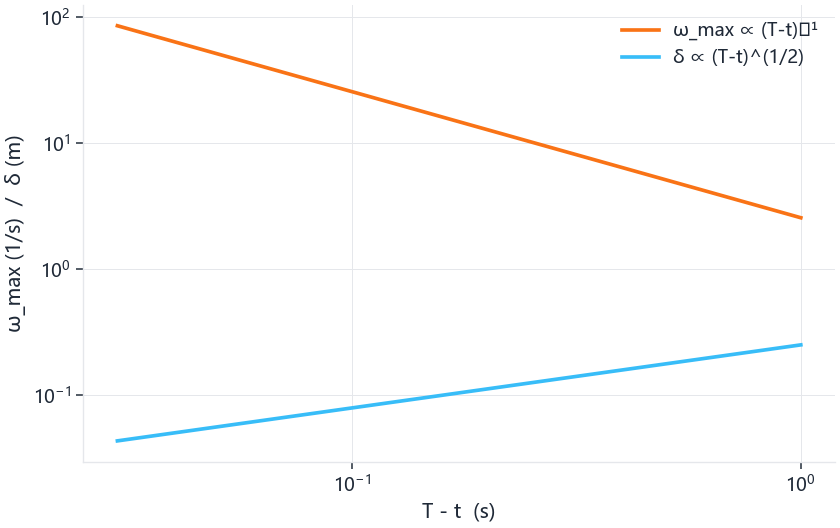
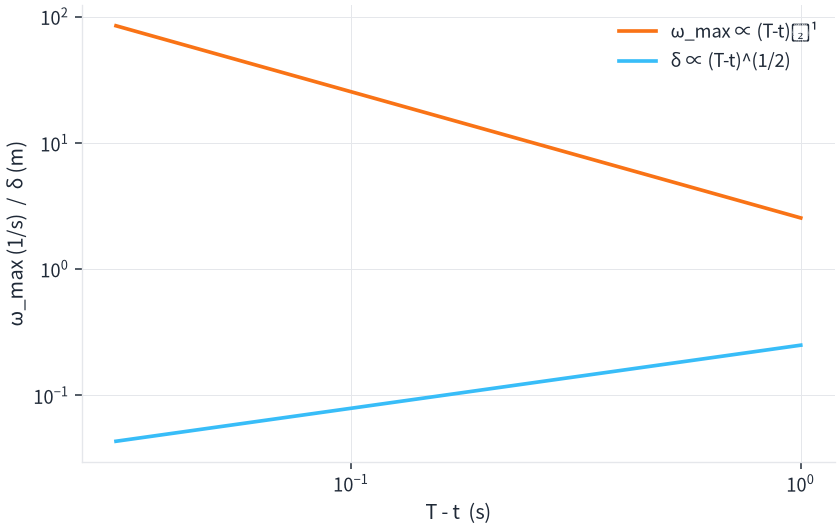
feat(ns): 辉光后处理 + 几何环层 + 轴柱颗粒喷射

diff --git a/src/plotkit/static/nsview.js b/src/plotkit/static/nsview.js
@@ -243,12 +243,12 @@ const NS = (() => {
       gl.texParameteri(gl.TEXTURE_2D, gl.TEXTURE_WRAP_S, gl.CLAMP_TO_EDGE);
       gl.texParameteri(gl.TEXTURE_2D, gl.TEXTURE_WRAP_T, gl.CLAMP_TO_EDGE);
 
-      this.cam = { yaw: -0.6, pitch: 0.42, dist: 3.6, target: [0, 0, 0] };
+      this.cam = { yaw: -0.6, pitch: 0.62, dist: 3.1, target: [0, 0, 0] };
       this.extent = [0.35, 1.2];
       this.particles = null;
       this.trails = null;
       this.settings = { density: 1.0, pointSize: 3.2, showParticles: true, showTrails: true,
-                        streaks: 0.8, spin: 2.0 };
+                        streaks: 0.8, spin: 2.0, bloom: 0.45, bloomThresh: 0.92, ringAlpha: 0.22, showRings: true };
       this.time = 0.0;
       this.tau = 1.0;
       this.stats = { fps: 0 };
@@ -311,19 +311,20 @@ const NS = (() => {
       const rMax = (this.extent && this.extent[0]) || 0.5;
       const zMax = (this.extent && this.extent[1]) || 1.2;
       for (let i = 0; i < count; i++) {
-        const th = rng() * Math.PI * 2;
+        // 黄金角分层：角度上均匀铺开，避免随机撒点造成的颗粒感
+        const th = (i * 2.399963229728653) % (Math.PI * 2);
         // 七成铺在赤道盘上（看得见同心环），三成铺在轴柱里（形成上下锥）
-        const disk = rng() < 0.85;
+        const disk = rng() < 0.78;
         // 离散同心壳：粒子撒在 N 个半径上，才看得出参考图那种环
-        const SHELLS = 26;
+        const SHELLS = 40;
         const shell = Math.floor(rng() * SHELLS);
         const rr = disk
-          ? rMax * (shell + 0.5) / SHELLS * (0.985 + 0.03 * rng())
-          : 0.02 + 0.12 * rMax * Math.sqrt(rng());
+          ? rMax * (shell + 0.5) / SHELLS * (0.997 + 0.006 * rng())
+          : 0.02 + 0.16 * rMax * Math.sqrt(rng());
         const zz = disk
           ? (rng() * 2 - 1) * 0.035 * zMax
-          : (rng() * 2 - 1) * zMax;
-        const taper = disk ? 1.0 : 1.0 - 0.78 * Math.pow(Math.abs(zz) / zMax, 1.1);
+          : (rng() * 2 - 1) * 0.92 * zMax;
+        const taper = disk ? 1.0 : 1.0 - 0.86 * Math.pow(Math.abs(zz) / zMax, 1.1);
         pos[i * 3] = rr * taper * Math.cos(th);
         pos[i * 3 + 1] = rr * taper * Math.sin(th);
         pos[i * 3 + 2] = zz;
@@ -334,10 +335,12 @@ const NS = (() => {
           if (t < 0.25) { const k = t / 0.25; return [1.0, 0.95 + (0.60 - 0.95) * k, 0.80 + (0.15 - 0.80) * k]; }
           if (t < 0.55) { const k = (t - 0.25) / 0.30; return [1.0 + (0.20 - 1.0) * k, 0.60 + (0.82 - 0.60) * k, 0.15 + (0.72 - 0.15) * k]; }
           const k = (t - 0.55) / 0.45;
-          return [0.20 + (0.35 - 0.20) * k, 0.82 + (0.32 - 0.82) * k, 0.72 + (0.95 - 0.72) * k];
+          return [0.28 + (0.45 - 0.28) * k, 0.86 + (0.40 - 0.86) * k, 0.78 + (1.00 - 0.78) * k];
         };
         const c0 = pal(rn);
-        col[i * 3] = c0[0]; col[i * 3 + 1] = c0[1]; col[i * 3 + 2] = c0[2];
+        // 轴柱里的粒子压暗一点，让赤道盘更突出（颗粒喷射靠 bloom 提亮）
+        const dim = disk ? 1.0 : 0.72;
+        col[i * 3] = c0[0] * dim; col[i * 3 + 1] = c0[1] * dim; col[i * 3 + 2] = c0[2] * dim;
       }
       const gl = this.gl;
       const vbo = gl.createBuffer();
@@ -409,7 +412,7 @@ const NS = (() => {
         if (!isFinite(x) || rr > ext * 1.6 || Math.abs(z) > zext * 1.15
             || rr < ext * 0.05 || age[i] > 0.85) {
           const disk = Math.random() < 0.85;
-          const SHELLS = 26;
+          const SHELLS = 40;
           const shell = Math.floor(Math.random() * SHELLS);
           const rad = disk
             ? ext * (shell + 0.5) / SHELLS * (0.985 + 0.03 * Math.random())
@@ -446,6 +449,50 @@ const NS = (() => {
       gl.bufferSubData(gl.ARRAY_BUFFER, 0, age);
     }
 
+    // ---------- 环层：几何圆环（比粒子撒点更细更匀，直接反映等半径壳） ----------
+    buildRings(shells = 40, seg = 160) {
+      const gl = this.gl;
+      const rMax = (this.extent && this.extent[0]) || 0.5;
+      const vert = [], col = [];
+      const pal = (x) => {
+        if (x < 0.22) return [1.0, 0.96, 0.86];
+        if (x < 0.45) { const k = (x - 0.22) / 0.23; return [1.0, 0.96 + (0.72 - 0.96) * k, 0.86 + (0.18 - 0.86) * k]; }
+        if (x < 0.68) { const k = (x - 0.45) / 0.23; return [1.0 + (0.42 - 1.0) * k, 0.72 + (0.60 - 0.72) * k, 0.18 + (0.35 - 0.18) * k]; }
+        const k = (x - 0.68) / 0.32;
+        return [0.42 + (0.52 - 0.42) * k, 0.60 + (0.46 - 0.60) * k, 0.35 + (1.00 - 0.35) * k];
+      };
+      for (let s = 0; s < shells; s++) {
+        const r = rMax * (s + 3) / (shells + 3);
+        const c = pal(r / rMax);
+        for (let j = 0; j < seg; j++) {
+          const a0 = j / seg * Math.PI * 2, a1 = (j + 1) / seg * Math.PI * 2;
+          vert.push(r * Math.cos(a0), r * Math.sin(a0), 0, r * Math.cos(a1), r * Math.sin(a1), 0);
+          col.push(c[0], c[1], c[2], c[0], c[1], c[2]);
+        }
+      }
+      const vbo = gl.createBuffer();
+      gl.bindBuffer(gl.ARRAY_BUFFER, vbo);
+      gl.bufferData(gl.ARRAY_BUFFER, new Float32Array(vert), gl.STATIC_DRAW);
+      const cbo = gl.createBuffer();
+      gl.bindBuffer(gl.ARRAY_BUFFER, cbo);
+      gl.bufferData(gl.ARRAY_BUFFER, new Float32Array(col), gl.STATIC_DRAW);
+      if (!this.ringProg) {
+        const VS = `#version 300 es
+in vec3 aPos; in vec3 aCol; uniform mat4 uVP; out vec3 vCol;
+void main(){ vCol = aCol; gl_Position = uVP * vec4(aPos, 1.0); }`;
+        const FS = `#version 300 es
+precision highp float; in vec3 vCol; out vec4 o; uniform float uAlpha;
+void main(){ o = vec4(vCol * uAlpha, 1.0); }`;
+        const mk = (ty, src) => { const sh = gl.createShader(ty); gl.shaderSource(sh, src); gl.compileShader(sh); return sh; };
+        const p = gl.createProgram();
+        gl.attachShader(p, mk(gl.VERTEX_SHADER, VS));
+        gl.attachShader(p, mk(gl.FRAGMENT_SHADER, FS));
+        gl.linkProgram(p);
+        this.ringProg = p;
+      }
+      this.rings = { vbo, cbo, count: vert.length / 3 };
+    }
+
     _loop() {
       const now = performance.now();
       const dt = Math.min(0.05, (now - (this._last || now)) / 1000);
@@ -464,6 +511,9 @@ const NS = (() => {
     _draw() {
       const gl = this.gl;
       const w = this.canvas.width, h = this.canvas.height;
+      this._ensureFBOs();
+      // 场景先渲到离屏纹理，辉光与合成在 _postProcess 里做
+      gl.bindFramebuffer(gl.FRAMEBUFFER, this.sceneFBO);
       gl.viewport(0, 0, w, h);
       gl.clearColor(0.016, 0.02, 0.03, 1.0);
       gl.clear(gl.COLOR_BUFFER_BIT);
@@ -526,6 +576,24 @@ const NS = (() => {
         gl.drawArrays(gl.LINES, 0, T.steps * T.seeds);
       }
 
+      // 2.5) 几何环层（等半径壳，锐利且均匀）
+      if (this.settings.showRings !== false && this.rings) {
+        gl.useProgram(this.ringProg);
+        gl.bindBuffer(gl.ARRAY_BUFFER, this.rings.vbo);
+        const ra = gl.getAttribLocation(this.ringProg, "aPos");
+        gl.enableVertexAttribArray(ra);
+        gl.vertexAttribPointer(ra, 3, gl.FLOAT, false, 0, 0);
+        gl.bindBuffer(gl.ARRAY_BUFFER, this.rings.cbo);
+        const rc = gl.getAttribLocation(this.ringProg, "aCol");
+        gl.enableVertexAttribArray(rc);
+        gl.vertexAttribPointer(rc, 3, gl.FLOAT, false, 0, 0);
+        gl.uniformMatrix4fv(gl.getUniformLocation(this.ringProg, "uVP"), false, vp);
+        gl.uniform1f(gl.getUniformLocation(this.ringProg, "uAlpha"), this.settings.ringAlpha);
+        gl.enable(gl.BLEND);
+        gl.blendFunc(gl.SRC_ALPHA, gl.ONE);
+        gl.drawArrays(gl.LINES, 0, this.rings.count);
+      }
+
       // 3) 粒子（加法混合）
       if (this.settings.showParticles && this.particles) {
         const P = this.particles;
@@ -554,6 +622,140 @@ const NS = (() => {
       }
       gl.disable(gl.BLEND);
       this._lastVP = vp;
+      this._postProcess(w, h);
+    }
+
+    // ---------- 辉光（bloom）：亮部提取 → 分离高斯模糊 → 加法合成 ----------
+    _initPost() {
+      if (this.post) return;
+      const gl = this.gl;
+      const VS = `#version 300 es
+in vec2 aPos; out vec2 vUv;
+void main(){ vUv = aPos * 0.5 + 0.5; gl_Position = vec4(aPos, 0.0, 1.0); }`;
+      const mk = (fs) => {
+        const v = gl.createShader(gl.VERTEX_SHADER);
+        gl.shaderSource(v, VS); gl.compileShader(v);
+        const f = gl.createShader(gl.FRAGMENT_SHADER);
+        gl.shaderSource(f, fs); gl.compileShader(f);
+        if (!gl.getShaderParameter(f, gl.COMPILE_STATUS)) throw new Error(gl.getShaderInfoLog(f));
+        const p = gl.createProgram();
+        gl.attachShader(p, v); gl.attachShader(p, f); gl.linkProgram(p);
+        if (!gl.getProgramParameter(p, gl.LINK_STATUS)) throw new Error(gl.getProgramInfoLog(p));
+        return p;
+      };
+      const bright = mk(`#version 300 es
+precision highp float; in vec2 vUv; out vec4 o;
+uniform sampler2D uTex; uniform float uThresh; uniform float uKnee;
+void main() {
+  vec3 c = texture(uTex, vUv).rgb;
+  float l = max(c.r, max(c.g, c.b));
+  float k = clamp((l - uThresh) / max(uKnee, 1e-4), 0.0, 1.0);
+  o = vec4(c * k * k, 1.0);
+}`);
+      const blur = mk(`#version 300 es
+precision highp float; in vec2 vUv; out vec4 o;
+uniform sampler2D uTex; uniform vec2 uDir;
+void main() {
+  float w0 = 0.227027, w1 = 0.1945946, w2 = 0.1216216, w3 = 0.054054, w4 = 0.016216;
+  vec3 s = texture(uTex, vUv).rgb * w0;
+  s += texture(uTex, vUv + uDir * 1.0).rgb * w1;
+  s += texture(uTex, vUv - uDir * 1.0).rgb * w1;
+  s += texture(uTex, vUv + uDir * 2.0).rgb * w2;
+  s += texture(uTex, vUv - uDir * 2.0).rgb * w2;
+  s += texture(uTex, vUv + uDir * 3.0).rgb * w3;
+  s += texture(uTex, vUv - uDir * 3.0).rgb * w3;
+  s += texture(uTex, vUv + uDir * 4.0).rgb * w4;
+  s += texture(uTex, vUv - uDir * 4.0).rgb * w4;
+  o = vec4(s, 1.0);
+}`);
+      const comp = mk(`#version 300 es
+precision highp float; in vec2 vUv; out vec4 o;
+uniform sampler2D uScene; uniform sampler2D uBloom; uniform float uStrength;
+void main() {
+  vec3 s = texture(uScene, vUv).rgb;
+  vec3 b = texture(uBloom, vUv).rgb;
+  o = vec4(s + b * uStrength, 1.0);
+}`);
+      const buf = gl.createBuffer();
+      gl.bindBuffer(gl.ARRAY_BUFFER, buf);
+      gl.bufferData(gl.ARRAY_BUFFER, new Float32Array([-1, -1, 3, -1, -1, 3]), gl.STATIC_DRAW);
+      this.post = { bright, blur, comp, buf };
+    }
+
+    _ensureFBOs() {
+      const gl = this.gl, w = this.canvas.width, h = this.canvas.height;
+      this._initPost();
+      if (this.sceneFBO && this._fbW === w && this._fbH === h) return;
+      const mkRT = (tw, th) => {
+        const t = gl.createTexture();
+        gl.bindTexture(gl.TEXTURE_2D, t);
+        gl.texImage2D(gl.TEXTURE_2D, 0, gl.RGBA8, tw, th, 0, gl.RGBA, gl.UNSIGNED_BYTE, null);
+        gl.texParameteri(gl.TEXTURE_2D, gl.TEXTURE_MIN_FILTER, gl.LINEAR);
+        gl.texParameteri(gl.TEXTURE_2D, gl.TEXTURE_MAG_FILTER, gl.LINEAR);
+        gl.texParameteri(gl.TEXTURE_2D, gl.TEXTURE_WRAP_S, gl.CLAMP_TO_EDGE);
+        gl.texParameteri(gl.TEXTURE_2D, gl.TEXTURE_WRAP_T, gl.CLAMP_TO_EDGE);
+        const f = gl.createFramebuffer();
+        gl.bindFramebuffer(gl.FRAMEBUFFER, f);
+        gl.framebufferTexture2D(gl.FRAMEBUFFER, gl.COLOR_ATTACHMENT0, gl.TEXTURE_2D, t, 0);
+        return { tex: t, fbo: f };
+      };
+      if (this.sceneFBO) {
+        gl.deleteFramebuffer(this.sceneFBO); gl.deleteTexture(this.sceneTex);
+        gl.deleteFramebuffer(this.bloomFBO[0]); gl.deleteFramebuffer(this.bloomFBO[1]);
+        gl.deleteTexture(this.bloomTex[0]); gl.deleteTexture(this.bloomTex[1]);
+      }
+      const scene = mkRT(w, h);
+      this.sceneTex = scene.tex; this.sceneFBO = scene.fbo;
+      this._bW = Math.max(1, Math.floor(w / 2)); this._bH = Math.max(1, Math.floor(h / 2));
+      const a = mkRT(this._bW, this._bH), b = mkRT(this._bW, this._bH);
+      this.bloomTex = [a.tex, b.tex]; this.bloomFBO = [a.fbo, b.fbo];
+      gl.bindFramebuffer(gl.FRAMEBUFFER, null);
+      this._fbW = w; this._fbH = h;
+    }
+
+    _postProcess(w, h) {
+      const gl = this.gl, P = this.post;
+      const bw = this._bW, bh = this._bH;
+      gl.disable(gl.BLEND);
+      const bindQuad = (prog) => {
+        gl.useProgram(prog);
+        gl.bindBuffer(gl.ARRAY_BUFFER, P.buf);
+        const a = gl.getAttribLocation(prog, "aPos");
+        gl.enableVertexAttribArray(a);
+        gl.vertexAttribPointer(a, 2, gl.FLOAT, false, 0, 0);
+      };
+      // 1) 亮部提取：scene -> bloomA
+      bindQuad(P.bright);
+      gl.bindFramebuffer(gl.FRAMEBUFFER, this.bloomFBO[0]);
+      gl.viewport(0, 0, bw, bh);
+      gl.activeTexture(gl.TEXTURE0);
+      gl.bindTexture(gl.TEXTURE_2D, this.sceneTex);
+      gl.uniform1i(gl.getUniformLocation(P.bright, "uTex"), 0);
+      gl.uniform1f(gl.getUniformLocation(P.bright, "uThresh"), this.settings.bloomThresh);
+      gl.uniform1f(gl.getUniformLocation(P.bright, "uKnee"), 0.35);
+      gl.drawArrays(gl.TRIANGLES, 0, 3);
+      // 2) 分离高斯：A->B（横）再 B->A（纵）
+      bindQuad(P.blur);
+      gl.uniform1i(gl.getUniformLocation(P.blur, "uTex"), 0);
+      for (let i = 0; i < 2; i++) {
+        gl.bindFramebuffer(gl.FRAMEBUFFER, this.bloomFBO[(i + 1) % 2]);
+        gl.activeTexture(gl.TEXTURE0);
+        gl.bindTexture(gl.TEXTURE_2D, this.bloomTex[i]);
+        const dx = (i === 0 ? 1.6 / bw : 0.0), dy = (i === 0 ? 0.0 : 1.6 / bh);
+        gl.uniform2f(gl.getUniformLocation(P.blur, "uDir"), dx, dy);
+        gl.drawArrays(gl.TRIANGLES, 0, 3);
+      }
+      // 3) 合成到画布
+      bindQuad(P.comp);
+      gl.bindFramebuffer(gl.FRAMEBUFFER, null);
+      gl.viewport(0, 0, w, h);
+      gl.activeTexture(gl.TEXTURE0); gl.bindTexture(gl.TEXTURE_2D, this.sceneTex);
+      gl.activeTexture(gl.TEXTURE1); gl.bindTexture(gl.TEXTURE_2D, this.bloomTex[0]);
+      gl.uniform1i(gl.getUniformLocation(P.comp, "uScene"), 0);
+      gl.uniform1i(gl.getUniformLocation(P.comp, "uBloom"), 1);
+      gl.uniform1f(gl.getUniformLocation(P.comp, "uStrength"), this.settings.bloom);
+      gl.drawArrays(gl.TRIANGLES, 0, 3);
+      gl.activeTexture(gl.TEXTURE0);
     }
   }
 

diff --git a/src/plotkit/static/ns.html b/src/plotkit/static/ns.html
@@ -70,6 +70,8 @@
   <input id="ks" type="range" min="0" max="1" step="0.05" value="0.8">
   <label>螺旋缠绕 <span class="val" id="vw">2.0</span></label>
   <input id="kw" type="range" min="0" max="6" step="0.25" value="2.0">
+  <label>辉光强度 <span class="val" id="vb">0.45</span></label>
+  <input id="kb" type="range" min="0" max="2.5" step="0.05" value="0.45">
   <label>粒子数 <span class="val" id="vp">200000</span></label>
   <input id="kp" type="range" min="20000" max="300000" step="20000" value="200000">
   <div style="margin-top:8px; display:flex; gap:6px">
@@ -122,6 +124,7 @@ async function loadMeta() {
 async function loadField() {
   const { meta, data } = await getFrame(`/api/ns/slice?t=${S.t.toFixed(5)}&n_r=256&n_z=384&r_max=0.5&z_max=1.2&${params()}`);
   view.setField(meta, data);
+  view.buildRings();
   S.fieldMeta = meta;
 }
 
@@ -176,13 +179,14 @@ function scheduleRefresh(full) {
 
 function bind() {
   const kh = $("kh"), kx = $("kx"), ke = $("ke"), kd = $("kd"), kp = $("kp"),
-        ks = $("ks"), kw = $("kw");
+        ks = $("ks"), kw = $("kw"), kb = $("kb");
   kh.oninput = () => { S.h = +kh.value; $("vh").textContent = S.h.toFixed(3); scheduleRefresh(true); };
   kx.oninput = () => { S.x0 = +kx.value; $("vx").textContent = S.x0.toFixed(2); scheduleRefresh(true); };
   ke.oninput = () => { S.eta0 = +ke.value; $("ve").textContent = S.eta0.toFixed(2); scheduleRefresh(true); };
   kd.oninput = () => { view.settings.density = +kd.value; $("vd").textContent = (+kd.value).toFixed(1); };
   ks.oninput = () => { view.settings.streaks = +ks.value; $("vs").textContent = (+ks.value).toFixed(2); };
   kw.oninput = () => { view.settings.spin = +kw.value; $("vw").textContent = (+kw.value).toFixed(1); };
+  kb.oninput = () => { view.settings.bloom = +kb.value; $("vb").textContent = (+kb.value).toFixed(2); };
   kp.oninput = () => {
     S.particles = +kp.value; $("vp").textContent = S.particles;
     view.seedParticles(S.particles);
